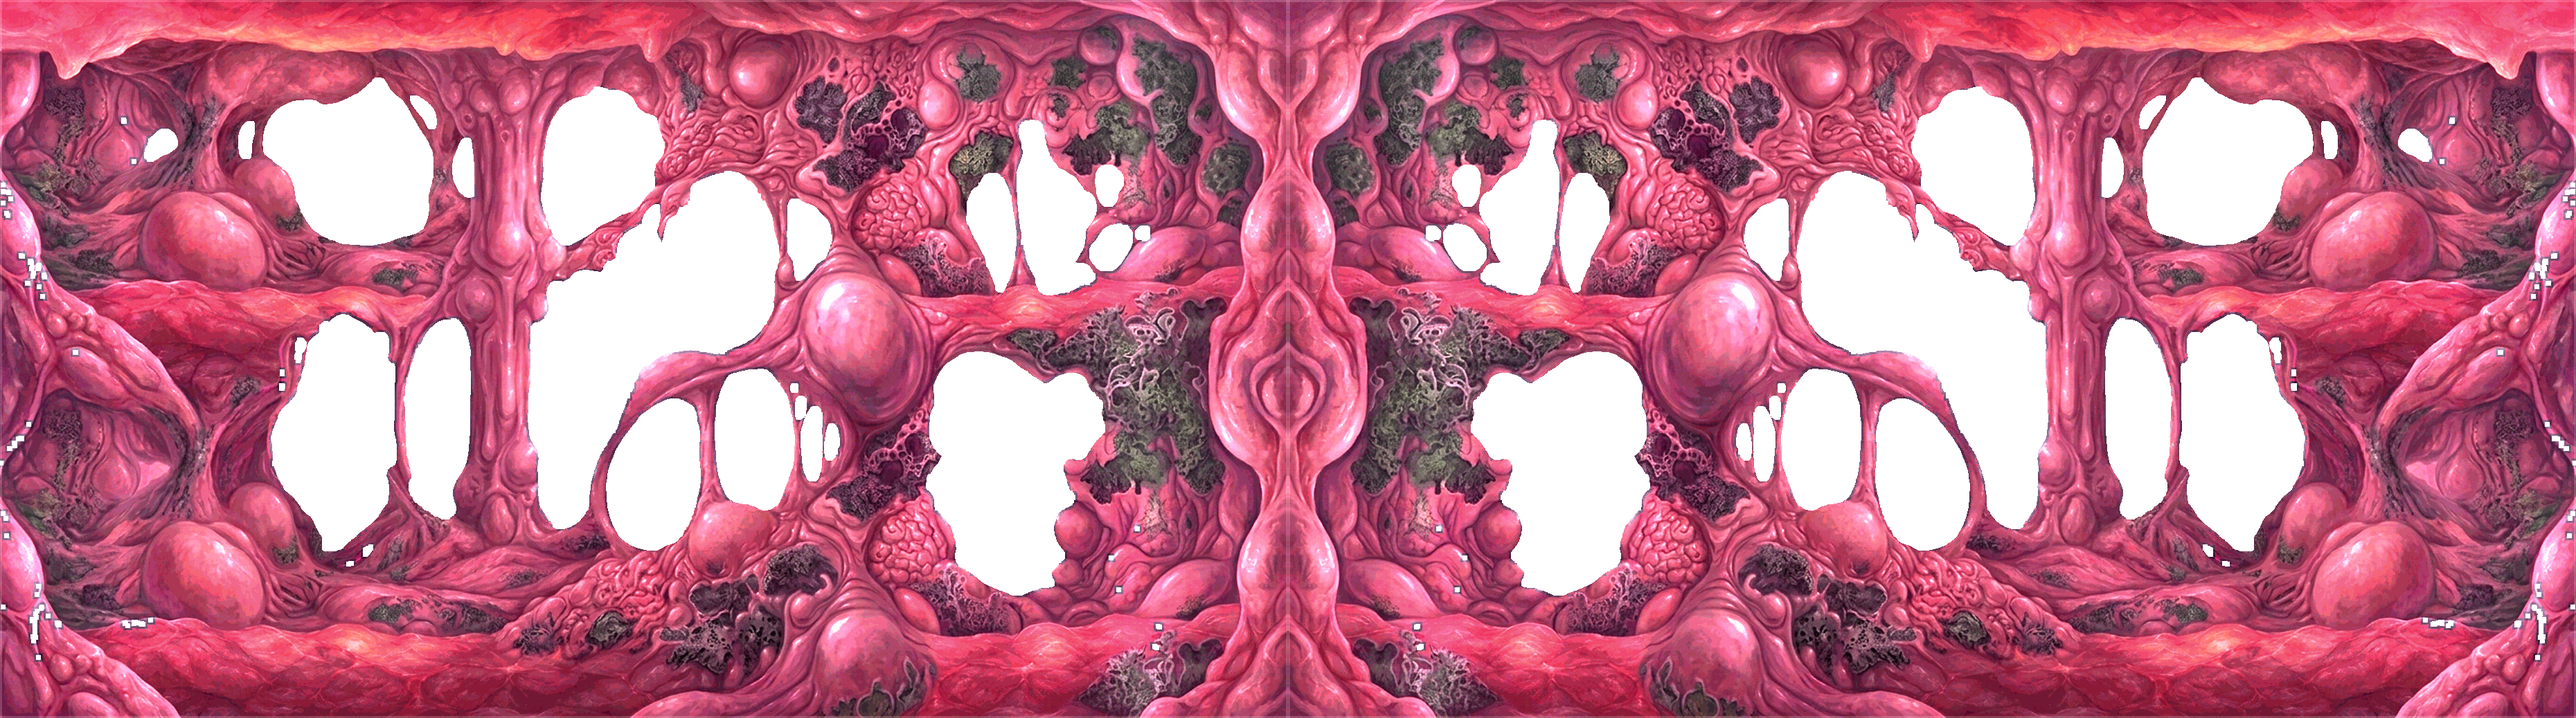
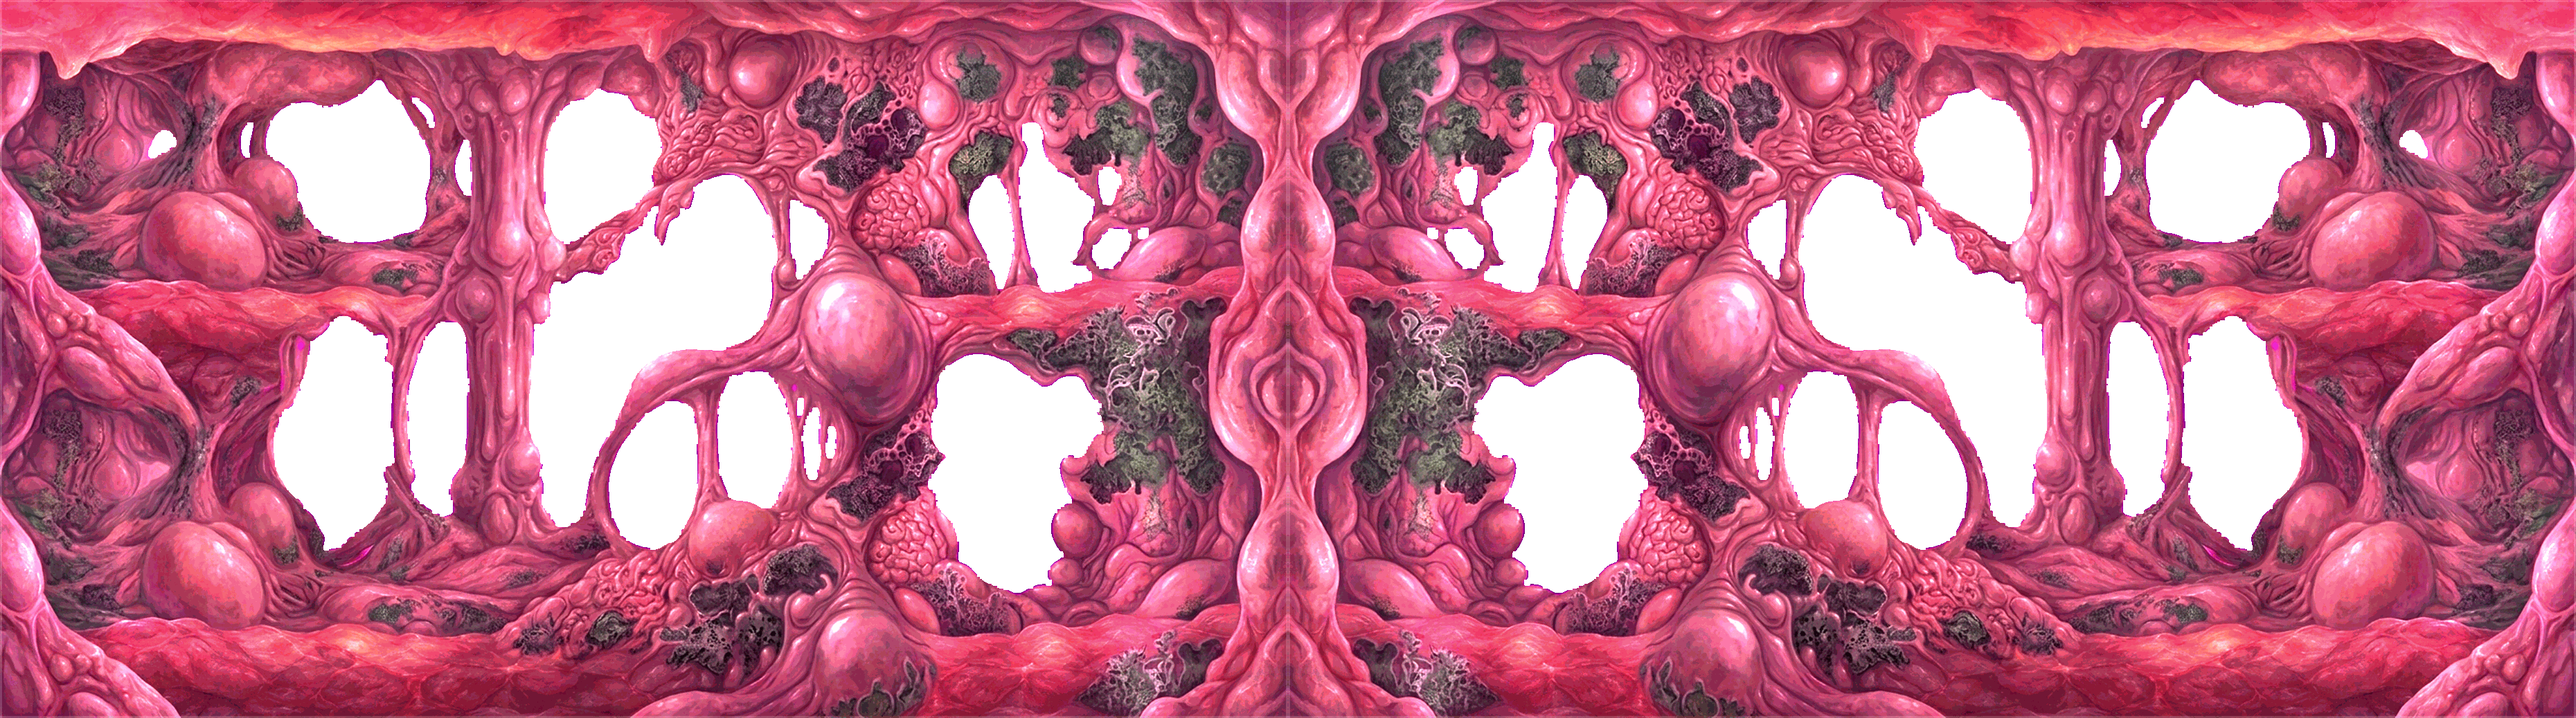
Quarto set di sfondo, e la rotazione che glielo faceva saltare
SET 4 montato con la lavorazione completa (arte dell'utente). Il piu' leggero dei
quattro pur essendo il piu' definito, perche' aveva la chiave piu' pulita.

⚠ IL SET 4 NON SI SAREBBE VISTO MAI. Una run ha TRE tratti da cinque livelli, i
set sono quattro, e la rotazione partiva sempre dal primo: il quarto restava
fuori per costruzione. Ora ogni run SORTEGGIA da quale set cominciare
(GameState.sfondoDiPartenza), quindi ne mostra tre su quattro e cambia
combinazione da una partita all'altra — piu' varieta' di prima, non un pareggio.

⚠ E UN ERRORE MIO, VISIBILE SOLO GRAZIE AL SET 4: la pulizia delle chiazze di
magenta girava DOPO l'armonizzazione del colore, e su una pittura molto satura
scambiava i punti luce dell'arte per chiave — a schermo comparivano quadratini di
sfondo dentro le formazioni. La chiave e' pura solo appena usciti dalla cottura:
e' li' che va tolta. I quattro passaggi (chiazze, frangia, colore, peso) stanno
ora in UN SOLO strumento, in ordine fisso: erano due comandi da lanciare nella
sequenza giusta, e il primo a sbagliarla sono stato io.

Piu' l'inquadratura del primo piano anche per il set 4 (GameGfx.SET_STRATI): i
generatori mettono il suo contenuto sotto la linea del terreno, dove non si vede.

99 controlli, il controllo sugli sfondi ora ne verifica quattro.

diff --git a/src/gfx.js b/src/gfx.js
@@ -110,6 +110,7 @@ window.GameGfx = {
   SET_STRATI: {
     1: { near: { y: -140, scale: 1.05 } },
     3: { near: { y: -150, scale: 1.05 } },
+    4: { near: { y: -120, scale: 1.05 } },
   },
 
   // Fonde due tinte canale per canale (tema x set): moltiplicare due tinte equivale a passarle
@@ -642,7 +643,10 @@ window.GameGfx = {
   bgSetFor(level) {
     const sets = (window.BG_SETS && window.BG_SETS.length) ? window.BG_SETS : null;
     if (!sets) return null;
-    return sets[Math.floor((Math.max(1, level) - 1) / 5) % sets.length];
+    // Il tratto (uno ogni 5 livelli) piu' il punto di partenza sorteggiato a inizio run.
+    const tratto = Math.floor((Math.max(1, level) - 1) / 5);
+    const inizio = (window.GameState && window.GameState.sfondoDiPartenza) || 0;
+    return sets[(tratto + inizio) % sets.length];
   },
 
   drawBackground(scene) {

diff --git a/src/state.js b/src/state.js
@@ -570,6 +570,11 @@ window.GameState = {
     this.tempoDiGioco = 0;
     this.bombaPronta = 0;
     this.granataPronta = 0;
+    // DA QUALE SFONDO COMINCIA QUESTA RUN. ⚠ Serve perche' una run ha TRE tratti da cinque
+    // livelli, e i set sono quattro: con la rotazione che partiva sempre dal primo, il quarto non
+    // si sarebbe visto MAI. Sorteggiando l'inizio, ogni run mostra tre ambienti su quattro e
+    // cambia combinazione — che e' anche piu' varieta' di prima, non solo un pareggio.
+    this.sfondoDiPartenza = Math.floor(Math.random() * ((window.BG_SETS || [1]).length));
     this.ownedAbilities = [];
     this.prossimoLivello = null;
     this.runStartAt = Date.now();

diff --git a/tools/checks.js b/tools/checks.js
@@ -2085,6 +2085,9 @@ window.__earwaxChecks = function (opts) {
     const guasti = [];
     (window.BG_SETS || []).forEach((set, i) => {
       const gsS = avviaLivello(1 + i * 5);          // un livello per tratto: cambia set ogni 5
+      window.GameState.sfondoDiPartenza = 0;        // niente sorteggio: qui si vogliono tutti
+      gsS.scene.restart();
+      avanza(gsS, 12);
       (gsS.bgLayers || []).forEach((L, k) => {
         const fondo = L.s.y + L.s.height;
         if (fondo < H) guasti.push('set ' + set + ' strato ' + k + ': arriva a ' + Math.round(fondo) + ' invece di ' + H);

diff --git a/src/scenes/BootScene.js b/src/scenes/BootScene.js
@@ -93,7 +93,7 @@ class BootScene extends Phaser.Scene {
     // regge quasi, ma messa accanto al set 2 e' visibilmente piu' piatta. Ricotta e provata a
     // schermo il 2026-08-24, l'utente l'ha guardata e l'ha scartata. Non riprovarci: la strada
     // sono set NUOVI generati gia' grandi.
-    window.BG_SETS = [1, 2, 3];
+    window.BG_SETS = [1, 2, 3, 4];
     window.BG_SETS.forEach((s) => {
       const dir = 'assets/backgrounds/' + s + '/';
       aimg('bg' + s + '_far', dir + 'bg' + s + '_far.jpg');

diff --git a/tools/rifinisci_sfondo.py b/tools/rifinisci_sfondo.py
@@ -1,29 +1,25 @@
-"""rifinisci_sfondo.py — ultima passata su un set di sfondo COTTO: bordi puliti e peso ridotto.
+"""rifinisci_sfondo.py — tutta la lavorazione che viene DOPO la cottura, nell'ordine giusto.
 
-    python tools\\rifinisci_sfondo.py 3
+    python tools\rifinisci_sfondo.py 4 [--come 2]
 
-Da lanciare dopo `bake_background_set.ps1`. Fa due cose sui due strati con trasparenza
-(`bg<N>_mid.png`, `bg<N>_near.png`).
+Quattro passaggi su `bg<N>_mid.png` e `bg<N>_near.png` (il `far` e' un JPG: niente trasparenza,
+niente tavolozza, si limita all'armonizzazione del colore).
 
-1) TOGLIE LA FRANGIA MAGENTA.
-   ⚠ Scontornare non basta mai del tutto: sul bordo restano pixel a meta' fra l'arte e la chiave,
-   e quella meta' e' magenta. Misurato sul materiale del 2026-08-24: **1-2% dei pixel visibili**
-   aveva una dominante magenta, e a schermo si vedeva come un contorno viola attorno alle
-   formazioni (se n'e' accorto l'utente guardando le anteprime).
-   Rimedio in due tempi:
-   - **si erode l'alpha** di un paio di pixel: la sagoma si stringe di un'inezia — su uno sfondo
-     non se ne accorge nessuno — e si porta via l'intera fascia sporca;
-   - **despill** su cio' che resta: dove rosso E blu stanno tutti e due ben sopra il verde, si
-     riportano giu'. ⚠ La condizione e' "tutti e due": l'arte e' rosa e malva, cioe' ha comunque
-     il rosso sopra il verde, e una regola piu' larga la scolorirebbe invece di pulirla.
+⚠ L'ORDINE E' IL PUNTO, ed e' per questo che i quattro passaggi stanno in UN SOLO strumento e non
+in tre. Quando la pulizia del magenta girava DOPO l'armonizzazione, su una pittura molto satura
+scambiava i punti luce dell'arte per chiave e le bucava — a schermo si vedevano quadratini di
+sfondo dentro le formazioni (successo davvero col set 4, 2026-08-26). La chiave e' pura solo
+appena usciti dalla cottura: e' li' che va tolta.
 
-2) RIDUCE IL PESO a un quinto, portando la tavolozza a 256 colori.
-   Misurato: lo strato di mezzo passa da 2.988 KB a 608 KB **senza differenza visibile** — l'arte
-   pittorica usa sfumature vicine dentro una gamma stretta, il caso in cui 256 colori bastano.
-   Senza questo passaggio quattro set raddoppiavano il peso dell'app.
-   FASTOCTREE e' l'unico metodo di Pillow che quantizza TENENDO la trasparenza.
-
-Non tocca il `far`: e' un JPG, non ha ne' trasparenza ne' tavolozza.
+1. CHIAZZE DI MAGENTA rimaste opache: chiave che lo scontorno non ha riconosciuto affatto (nel
+   set 3 erano 16.240 pixel, e si vedevano nel menu). Regola strettissima, e applicata quando
+   l'arte e' ancora nei suoi colori originali.
+2. FRANGIA SUL BORDO: si erode il contorno di 2px e si fa il despill su cio' che resta.
+   ⚠ Solo lungo il bordo: la condizione sul colore da sola, su arte rosa, prende anche il disegno.
+3. ARMONIZZAZIONE verso un set di riferimento: saturazione e luce misurate SOI PIXEL VISIBILI
+   (meta' del primo piano e' trasparente: contando i buchi la media direbbe "scurissimo").
+   ⚠ Serve perche' la tinta di Phaser moltiplica: puo' spegnere e virare, mai ravvivare.
+4. PESO: tavolozza a 256 colori, che porta gli strati a un quinto senza differenza visibile.
 """
 import sys
 from pathlib import Path
@@ -37,81 +33,111 @@ RADICE = Path(__file__).resolve().parent.parent
 EROSIONE = 5        # lato del filtro di minimo: 5 = due pixel via per lato
 SOGLIA = 40         # di quanto rosso e blu devono superare il verde per dirsi "frangia"
 COLORI = 256
+LIMITE = (0.7, 2.2)   # quanto si puo' spingere l'armonizzazione, in su e in giu'
 
 
-def rifinisci(f):
-    im = Image.open(f).convert("RGBA")
-    prima = np.asarray(im, dtype=np.int16)
-    r0, g0, b0, a0 = prima[:, :, 0], prima[:, :, 1], prima[:, :, 2], prima[:, :, 3]
-    vuoto0 = Image.fromarray(((a0 < 10) * 255).astype(np.uint8))
-    bordo0 = np.asarray(vuoto0.filter(ImageFilter.MaxFilter(7))) > 0
-    sporchi_prima = int((((a0 > 10) & bordo0 & (r0 - g0 > SOGLIA) & (b0 - g0 > SOGLIA))).sum())
+def misura(im):
+    """Saturazione e luminosita' medie dei soli pixel visibili."""
+    a = np.asarray(im, dtype=np.float32) / 255
+    visibile = a[:, :, 3] > 0.4
+    if visibile.sum() < 100:
+        return None, None
+    rgb = a[:, :, :3][visibile]
+    mx = rgb.max(axis=1)
+    mn = rgb.min(axis=1)
+    sat = np.where(mx > 0, (mx - mn) / np.maximum(mx, 1e-6), 0)
+    return float(sat.mean()), float(mx.mean())
 
-    # 1a-bis — CHIAZZE DI MAGENTA RIMASTE OPACHE. ⚠ Non e' la frangia del bordo: e' chiave che lo
-    # scontorno non ha proprio riconosciuto, e resta li' come una macchia viola in mezzo all'arte
-    # (nel set 3 erano 16.240 pixel, e si vedevano nel menu). Succede dove il magenta della
-    # sorgente e' sporco — JPEG, ombre — e finisce fuori dalla tolleranza dello scontorno.
-    # Qui la regola e' STRETTISSIMA (rosso e blu quasi al massimo, verde molto basso): l'arte rosa
-    # non ci arriva mai nemmeno dopo che e' stata ravvivata.
-    a0m = np.asarray(im, dtype=np.int16)
-    chiazza = ((a0m[:, :, 3] > 10) & (a0m[:, :, 0] > 170) & (a0m[:, :, 2] > 170) & (a0m[:, :, 1] < 100))
-    chiazze_tolte = int(chiazza.sum())
-    if chiazze_tolte:
-        # allargata di un pixel, per portarsi via anche l'alone attorno
+
+def correggi(im, fs, fv):
+    a = np.asarray(im, dtype=np.float32) / 255
+    rgb, alpha = a[:, :, :3], a[:, :, 3]
+    grigio = rgb.mean(axis=2, keepdims=True)
+    # saturazione: si allontana ogni canale dal proprio grigio
+    rgb = np.clip(grigio + (rgb - grigio) * fs, 0, 1)
+    rgb = np.clip(rgb * fv, 0, 1)
+    fuori = np.concatenate([rgb, alpha[:, :, None]], axis=2)
+    return Image.fromarray((fuori * 255).astype(np.uint8), "RGBA")
+
+
+
+def togli_chiazze(im):
+    """Chiave rimasta opaca in mezzo all'arte. Da fare PRIMA di ravvivare i colori."""
+    a = np.asarray(im, dtype=np.int16)
+    chiazza = ((a[:, :, 3] > 10) & (a[:, :, 0] > 170) & (a[:, :, 2] > 170) & (a[:, :, 1] < 100)
+               & (np.abs(a[:, :, 0] - a[:, :, 2]) < 45))
+    quante = int(chiazza.sum())
+    if quante:
         maschera = Image.fromarray((chiazza * 255).astype(np.uint8)).filter(ImageFilter.MaxFilter(3))
-        alpha0 = np.asarray(im.getchannel("A")).copy()
-        alpha0[np.asarray(maschera) > 0] = 0
-        im.putalpha(Image.fromarray(alpha0))
+        alpha = np.asarray(im.getchannel("A")).copy()
+        alpha[np.asarray(maschera) > 0] = 0
+        im.putalpha(Image.fromarray(alpha))
+    return quante
 
-    # 1a — erosione dell'alpha: il minimo su una finestra 5x5 spegne i bordi
+
+def togli_frangia(im):
+    """Erosione del contorno + despill, SOLO lungo il bordo."""
     alpha = im.getchannel("A").filter(ImageFilter.MinFilter(EROSIONE))
     im.putalpha(alpha)
-
-    # 1b — despill su quel che resta, SOLO LUNGO IL BORDO.
-    # ⚠ La condizione sul colore da sola NON BASTA, e crederlo e' costato un giro: ravvivando
-    # l'arte (armonizza_sfondo.py) la pittura rosa comincia a soddisfarla, e il despill si e'
-    # mangiato 1,3 MILIONI di pixel di disegno invece dei pochi del contorno. La frangia vive
-    # attaccata alla trasparenza: si guarda li' e basta.
-    alpha_np = np.asarray(alpha)
-    trasparente = Image.fromarray(((alpha_np < 10) * 255).astype(np.uint8))
-    vicino_al_vuoto = np.asarray(trasparente.filter(ImageFilter.MaxFilter(7))) > 0
+    trasparente = Image.fromarray(((np.asarray(alpha) < 10) * 255).astype(np.uint8))
+    bordo = np.asarray(trasparente.filter(ImageFilter.MaxFilter(7))) > 0
     a = np.asarray(im, dtype=np.int16)
     r, g, b, al = a[:, :, 0], a[:, :, 1], a[:, :, 2], a[:, :, 3]
-    frangia = (al > 10) & vicino_al_vuoto & (r - g > SOGLIA) & (b - g > SOGLIA)
+    frangia = (al > 10) & bordo & (r - g > SOGLIA) & (b - g > SOGLIA)
+    quante = int(frangia.sum())
     tetto = g + SOGLIA
     a[:, :, 0] = np.where(frangia, np.minimum(r, tetto), r)
     a[:, :, 2] = np.where(frangia, np.minimum(b, tetto), b)
-    pulita = Image.fromarray(a.astype(np.uint8), "RGBA")
+    return Image.fromarray(a.astype(np.uint8), "RGBA"), quante
 
-    dopo = np.asarray(pulita, dtype=np.int16)
-    r1, g1, b1, a1 = dopo[:, :, 0], dopo[:, :, 1], dopo[:, :, 2], dopo[:, :, 3]
-    vuoto1 = Image.fromarray(((a1 < 10) * 255).astype(np.uint8))
-    bordo1 = np.asarray(vuoto1.filter(ImageFilter.MaxFilter(7))) > 0
-    sporchi_dopo = int((((a1 > 10) & bordo1 & (r1 - g1 > SOGLIA) & (b1 - g1 > SOGLIA))).sum())
 
-    peso_prima = f.stat().st_size
-    pulita.quantize(colors=COLORI, method=Image.FASTOCTREE).save(f, optimize=True)
-    peso_dopo = f.stat().st_size
-    print(f"{f.name}: frangia {sporchi_prima} -> {sporchi_dopo} pixel"
-          f"  |  chiazze tolte {chiazze_tolte} pixel"
-          f"  |  peso {peso_prima / 1024:.0f} KB -> {peso_dopo / 1024:.0f} KB")
+def fattori(im, im_rif):
+    s0, v0 = misura(im)
+    s1, v1 = misura(im_rif)
+    if s0 is None or s1 is None or s0 < 0.01:
+        return 1.0, 1.0
+    return (min(max(s1 / s0, LIMITE[0]), LIMITE[1]),
+            min(max(v1 / v0, LIMITE[0]), LIMITE[1]))
 
 
 def main():
     if len(sys.argv) < 2:
-        print("Uso: python tools\\rifinisci_sfondo.py <numero del set>")
+        print("Uso: python tools\rifinisci_sfondo.py <set> [--come <set di riferimento>]")
         return 2
     n = sys.argv[1]
+    rif = sys.argv[sys.argv.index("--come") + 1] if "--come" in sys.argv else "2"
     cartella = RADICE / "assets" / "backgrounds" / n
+    cartella_rif = RADICE / "assets" / "backgrounds" / rif
     if not cartella.is_dir():
         print(f"Cartella non trovata: {cartella}")
         return 2
-    for ruolo in ("mid", "near"):
-        f = cartella / f"bg{n}_{ruolo}.png"
-        if f.exists():
-            rifinisci(f)
-        else:
+
+    for ruolo, est in [("far", "jpg"), ("mid", "png"), ("near", "png")]:
+        f = cartella / f"bg{n}_{ruolo}.{est}"
+        f_rif = cartella_rif / f"bg{rif}_{ruolo}.{est}"
+        if not f.exists():
             print(f"Manca {f.name}: salto")
+            continue
+        im = Image.open(f).convert("RGBA")
+        peso_prima = f.stat().st_size
+        chiazze = frangia = 0
+        if est == "png":
+            chiazze = togli_chiazze(im)
+            im, frangia = togli_frangia(im)
+        if f_rif.exists() and n != rif:
+            fs, fv = fattori(im, Image.open(f_rif).convert("RGBA"))
+            im = correggi(im, fs, fv)
+        else:
+            fs = fv = 1.0
+        if est == "jpg":
+            fondo = Image.new("RGB", im.size, (26, 12, 20))
+            fondo.paste(im, (0, 0), im)
+            fondo.save(f, quality=86, optimize=True)
+        else:
+            im.quantize(colors=COLORI, method=Image.FASTOCTREE).save(f, optimize=True)
+        print(f"{f.name}: chiazze {chiazze}, frangia {frangia}, "
+              f"colore x{fs:.2f} sat x{fv:.2f} luce  |  "
+              f"peso {peso_prima / 1024:.0f} -> {f.stat().st_size / 1024:.0f} KB")
     return 0
 
 

diff --git a/ROADMAP.md b/ROADMAP.md
@@ -73,9 +73,12 @@ lontani dall'ambra.
  2. **Arte dedicata solo dove serve davvero**, uno o due temi. Da valutare dopo averli giocati:
     la ricoloritura potrebbe bastare per quasi tutti.
 
-✅ **DUE SET DI SFONDO NUOVI (2026-08-24).** Generati dall'utente e montati: `BG_SETS = [1, 2, 3]`,
-cioe' **tre ambienti diversi in una run da 15 livelli**, uno ogni cinque, senza ripetizioni. Prima
-ce n'era uno solo per tutti e quindici.
+✅ **TRE SET DI SFONDO NUOVI (2026-08-24/26).** Generati dall'utente e montati: `BG_SETS =
+[1, 2, 3, 4]`. Prima ce n'era uno solo per tutti e quindici i livelli.
+⚠ **Con quattro set il quarto non si sarebbe visto MAI:** una run ha TRE tratti da cinque livelli
+e la rotazione partiva sempre dal primo. Ora ogni run **sorteggia da dove cominciare**
+(`GameState.sfondoDiPartenza`), quindi vede tre ambienti su quattro e cambia combinazione — piu'
+varieta' di prima, non solo un pareggio.
 La lavorazione ora e' in tre comandi, e i due nuovi strumenti nascono da due difetti misurati:
 ```
 python tools\prepara_sfondo.py <N>
@@ -97,6 +100,14 @@ python tools\rifinisci_sfondo.py <N>
    avere quattro ambienti in un'app da 16 MB.
  - ⚠ **La misura di cottura va scelta guardando l'ALTEZZA**, non la larghezza: gli strati hanno
    proporzioni diverse fra loro e con `-Width` troppo basso il fondale non copre lo schermo.
+ - ⚠ **I generatori mettono il contenuto del PRIMO PIANO troppo in basso**, e li' lo copre il
+   terreno del gioco: a schermo si percepiscono due piani invece di tre. Si corregge
+   l'inquadratura per set in `GameGfx.SET_STRATI` — e' inquadratura, si tara guardando.
+ - ⚠ **L'ORDINE DELLA LAVORAZIONE E' PARTE DELLA LAVORAZIONE.** Pulizia del magenta, bordi,
+   colore e peso stanno in un unico strumento apposta: quando la pulizia girava DOPO
+   l'armonizzazione, su una pittura satura scambiava i punti luce per chiave e bucava l'arte
+   (quadratini di sfondo dentro le formazioni, set 4). La chiave e' pura solo appena usciti dalla
+   cottura: e' li' che va tolta.
 ⚠ Da fare comunque: oggi `BG_SETS = [2]`, cioe' **un solo set per tutti e 15 i livelli**. La
 varieta' dentro la run non esiste ancora, e non e' un problema di temi ma di quel numero.
 
